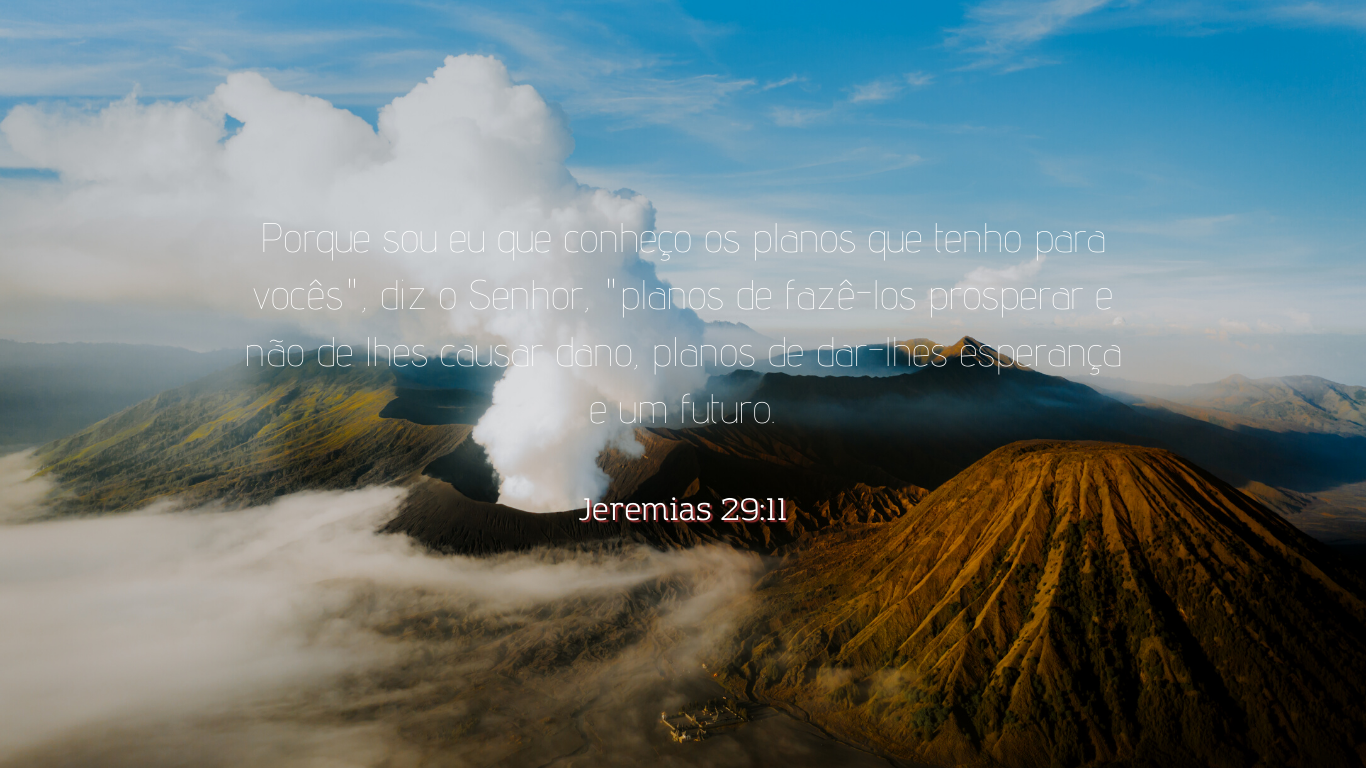
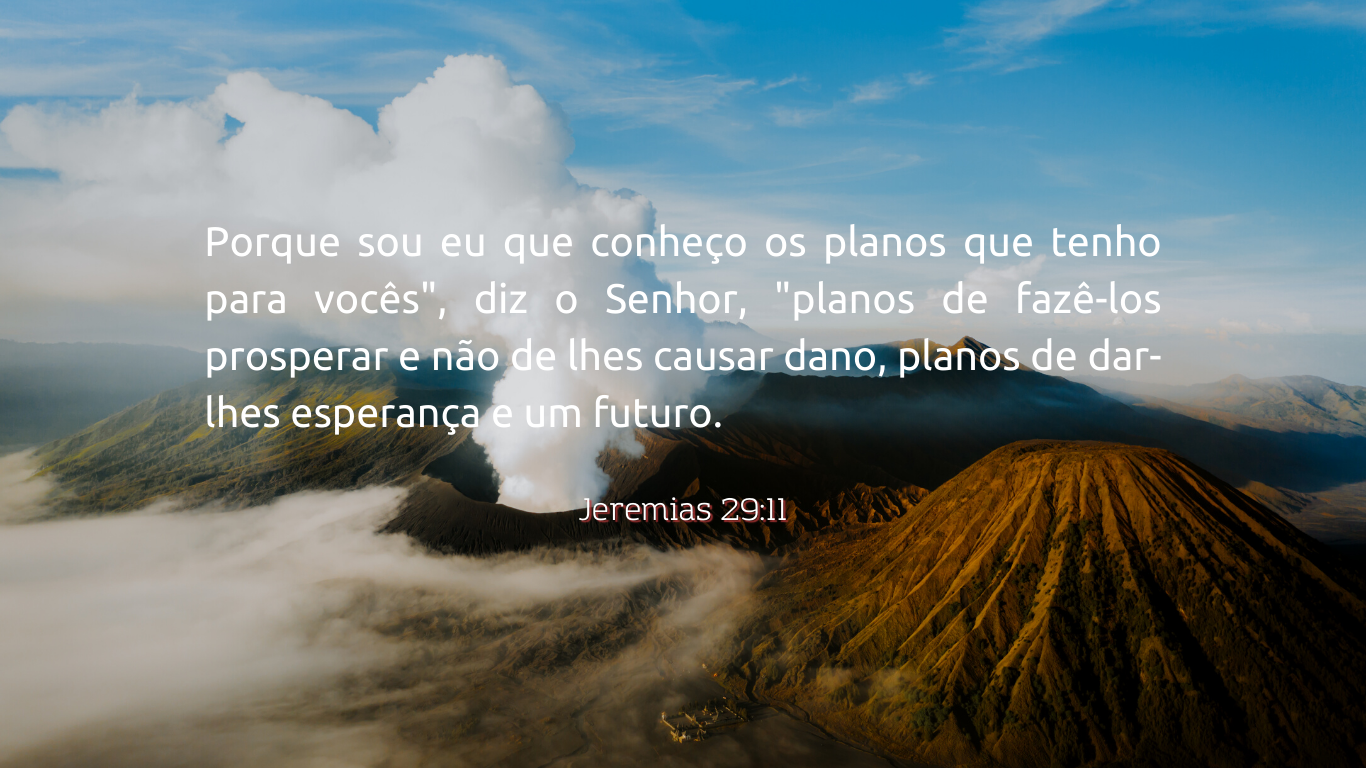
Responsivo pra LapTop, e começando em tablet

Changed region(s): [[0.1537, 0.4375, 0.8609, 0.5625], [0.1537, 0.2812, 0.8609, 0.3438], [0.1537, 0.375, 0.8609, 0.4062]]

diff --git a/site/public/css/style.css b/site/public/css/style.css
@@ -116,7 +116,7 @@ nav .logo .h1:hover {
 
 /* Nav Responsiva */
 .navBar {
-  width: 25%;
+  width: 350px;
   height: 100vh;
   box-shadow: 1px 0 5px #161618;
   position: fixed;
@@ -230,6 +230,12 @@ nav .logo .h1:hover {
   color: #f5f5f5;
 }
 
+@media only screen and (max-width: 1100px) {
+  .navBar {
+    width: 350px;
+  }
+}
+
 
 
 
@@ -335,6 +341,26 @@ nav .logo .h1:hover {
     height: 55vmax;
   }
 }
+
+
+
+
+
+
+
+
+
+
+
+
+
+
+
+
+
+
+
+
 
 
 
@@ -832,7 +858,7 @@ nav .logo .h1:hover {
 
 /* CURIOSIDADES */
 .curiosidades {
-  width: 80%;
+  width: 75%;
   height: auto;
   display: none;
   /* overflow-y: auto; */
@@ -928,7 +954,7 @@ nav .logo .h1:hover {
   position: fixed;
   z-index: 1000;
   width: 100%;
-  height: 47vmax;
+  height: 100vh;
   background-color: #1616185f;
   display: none;
   justify-content: center;
@@ -999,7 +1025,25 @@ nav .logo .h1:hover {
   font-size: 1.2em;
 }
 
+@media only screen and (max-width: 1100px) {
+  .curiosidades {
+    width: 100%;
+  }
 
+  .curiosidades .container {
+    width: 80%;
+    height: 25vmax;
+  }
+
+  .curiosidades .container .conteudo {
+    height: 25vmax;
+  }
+
+  .curiosidades .container .modal .texto {
+    width: 90%;
+    height: 45vmax;
+  }
+}
 
 
 
@@ -1008,7 +1052,7 @@ nav .logo .h1:hover {
 /* Login */
 .login,
 .cadastro {
-  width: 25%;
+  width: 350px;
   height: 100vh;
   box-shadow: 1px 0 5px #161618;
   position: fixed;
@@ -1142,6 +1186,7 @@ nav .logo .h1:hover {
   margin-top: 5px;
   color: #772d2d;
   font-family: 'Ubuntu';
+  text-align: center;
 }
 
 .login .conteudo .botao span {
@@ -1247,7 +1292,39 @@ nav .logo .h1:hover {
 
 
 
+@media only screen and (max-width: 800px) {
+  nav .logo .h1 {
+    font-size: 2.4em;
+  }
+  nav .temazin button span {
+    font-size: 2em;
+  }
 
+
+  .sectionPrincipal {
+    height: 45vmax;
+    padding-top: 0px;
+  }
+
+  .sectionPrincipal .versiculosHome1,
+  .versiculosHome2,
+  .versiculosHome3,
+  .versiculosHome4 {
+    width: 100%;
+    height: 45vmax;
+    border-radius: 0;
+  }
+
+
+
+  .sectionSegunda{
+    height: 40vmax;
+  }
+  .sectionSegunda .sobre {
+    display: none;
+  }
+
+}
 
 
 

diff --git a/site/public/js/firulasIndex.js b/site/public/js/firulasIndex.js
@@ -58,6 +58,8 @@ function mudarTema() {
     var txtInfo5 = document.getElementById('info-5').style
     var tituloQuinta = document.getElementById('titulo-quinta').style
     var navBarEscondida = document.getElementById('novaNav').style
+    var telaLogin = document.getElementById('div-login').style
+    var telaCad = document.getElementById('div-cadastro').style
 
     if (numTema == 1) {
         body.backgroundColor = "#383838"
@@ -79,6 +81,8 @@ function mudarTema() {
         txtInfo5.color = "#f5f5f5"
         tituloQuinta.color = "#f5f5f5"
         navBarEscondida.backgroundColor = "#383838"
+        telaLogin.backgroundColor = "#383838"
+        telaCad.backgroundColor = "#383838"
 
         numTema++
     } else {

diff --git a/site/public/index.html b/site/public/index.html
@@ -457,7 +457,7 @@
             </div>
             <div class="botao">
                 <button onclick="entrar()">Entrar</button>
-                <p>Ainda não tem conta? <span style="cursor: pointer;" onclick="abrirCad()">Cadastre-se</span></p>
+                <p>Ainda não tem conta? <br><span style="cursor: pointer;" onclick="abrirCad()">Cadastre-se</span></p>
             </div>
         </div>
 
